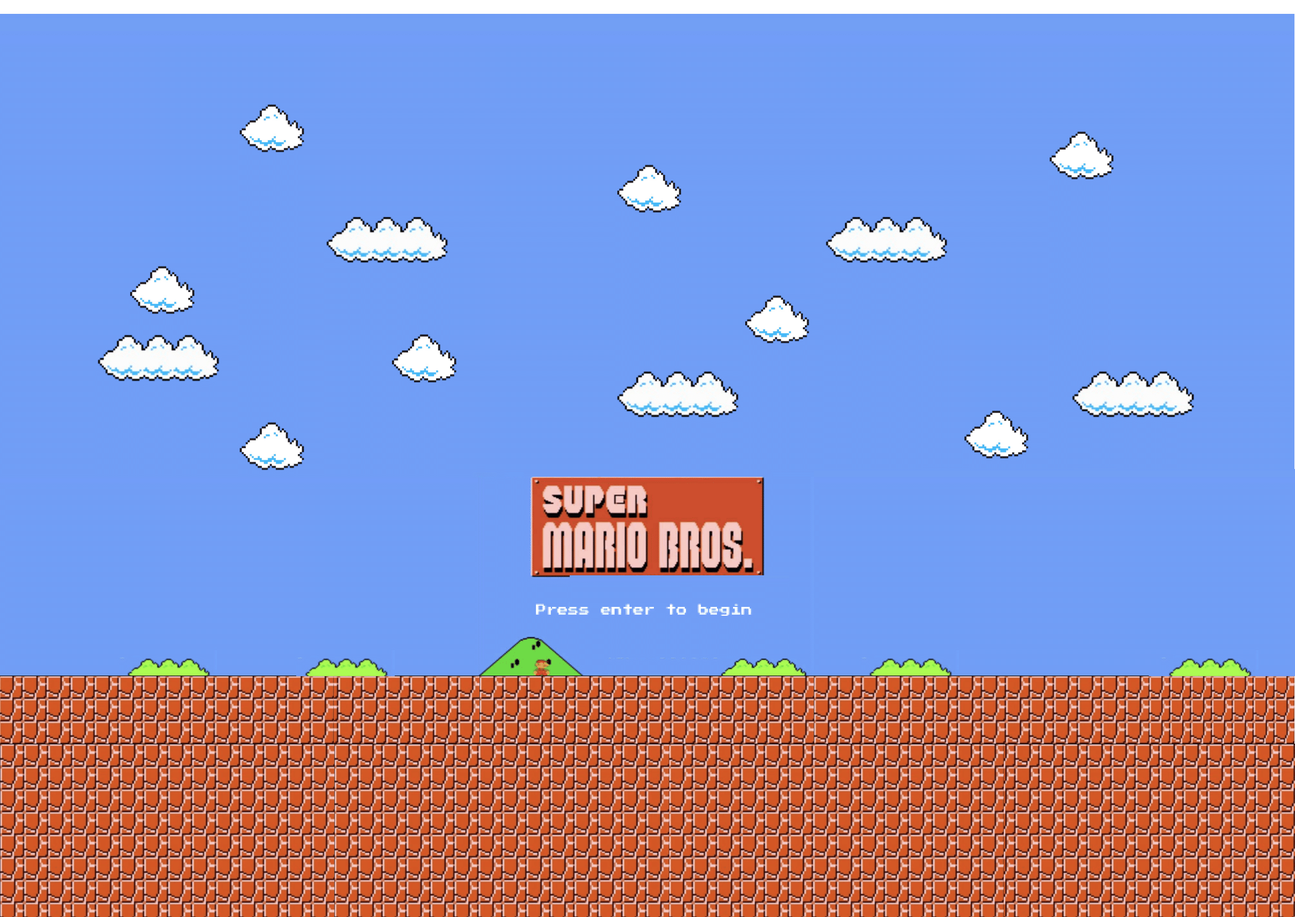
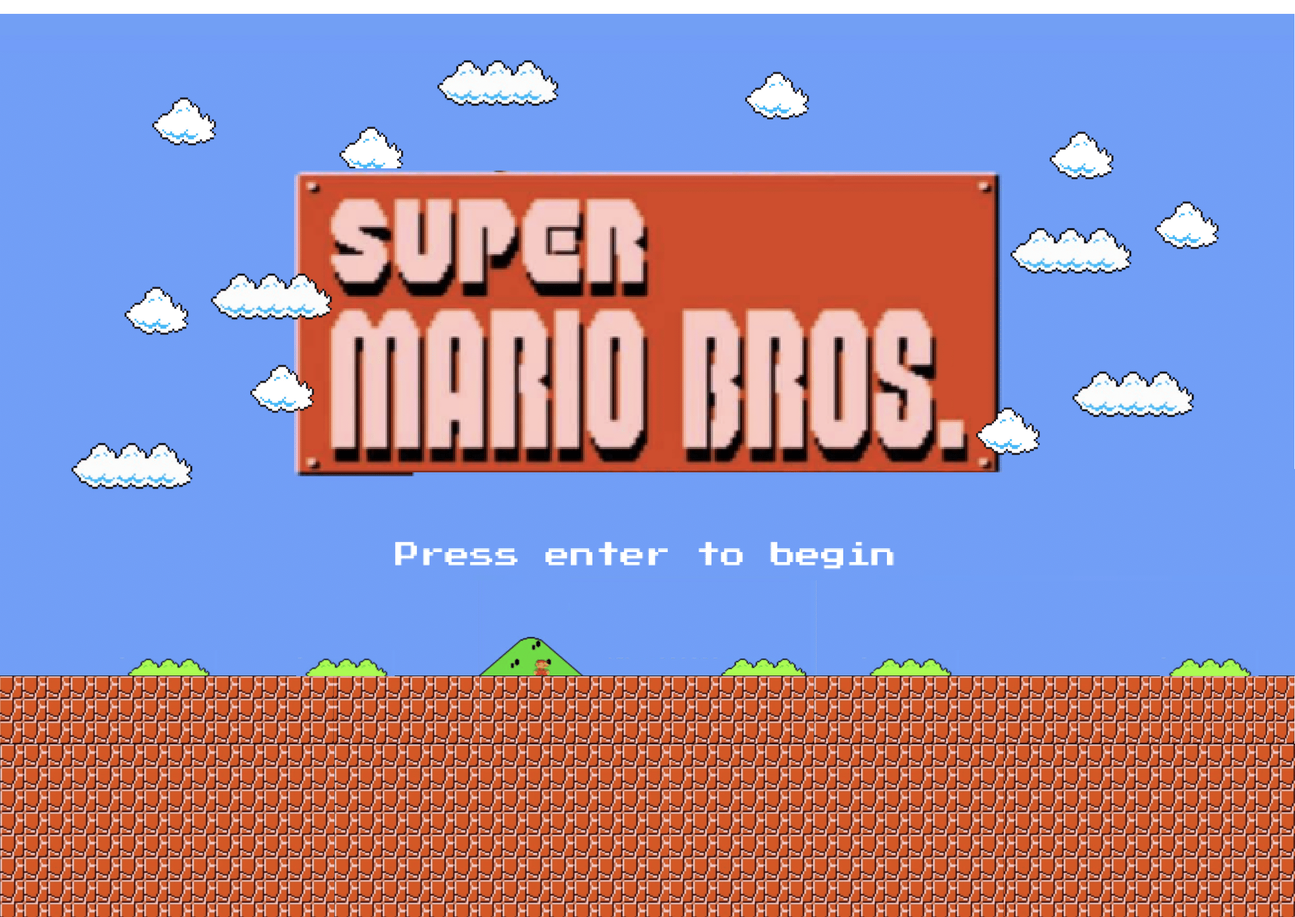
Resized title screen

diff --git a/index.html b/index.html
@@ -14,7 +14,7 @@
 				height: 100%;
 				z-index: 1000;
 				background: url('./assets/titlescreen.png') no-repeat center center;
-				background-size: cover;
+				background-size: 100%;
 				display: flex;
 				align-items: center;
 				justify-content: center;
@@ -25,9 +25,7 @@
 		  </style>
 	</head>
 	<body>
-		<div id="title-screen">
-		</div>
-
+		<div id="title-screen"></div>
 		<script type="module" src="/main.js"></script>
 	</body>
 </html>
